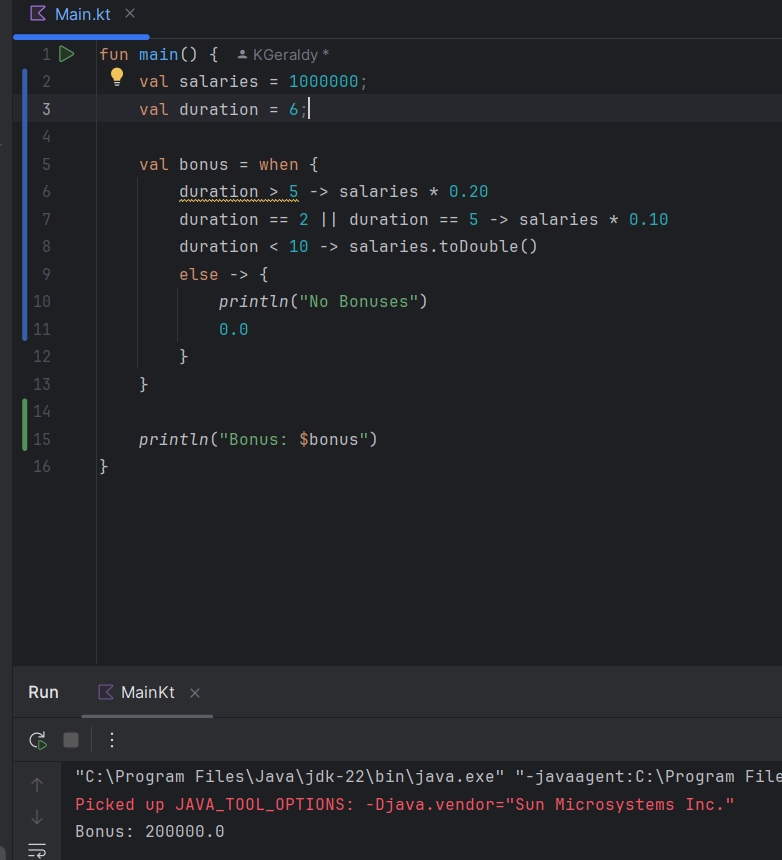
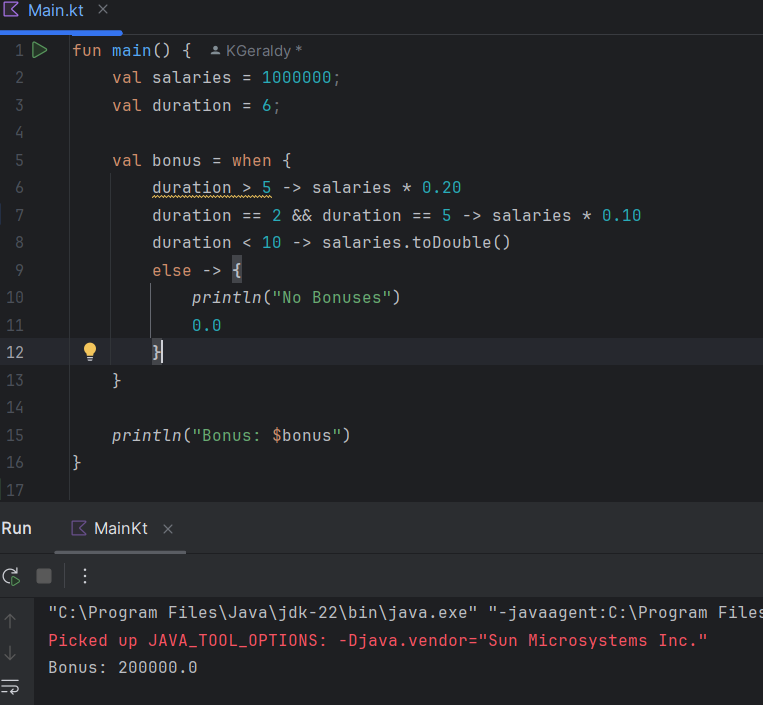
add story 3 and fix story 2

diff --git a/exercise/day-1/HelloWorld/src/Main.kt b/exercise/day-1/HelloWorld/src/Main.kt
@@ -1,16 +1,19 @@
 fun main() {
-    val salaries = 1000000;
-    val duration = 6;
+    val spent = 200;
 
-    val bonus = when {
-        duration > 5 -> salaries * 0.20
-        duration == 2 || duration == 5 -> salaries * 0.10
-        duration < 10 -> salaries.toDouble()
+    val discount = when {
+        spent > 200 -> spent * 0.30
+        spent > 100 && spent <= 200 -> spent * 0.20
+        spent == 200 -> spent * 0.20
+        spent == 50 && spent <= 100 -> spent * 0.10
+        spent == 100 -> spent * 0.10
+        spent < 50 -> spent.toDouble()
         else -> {
             println("No Bonuses")
             0.0
         }
     }
 
-    println("Bonus: $bonus")
+    val finalPrice = spent - discount;
+    println("Final price: $finalPrice")
 }
